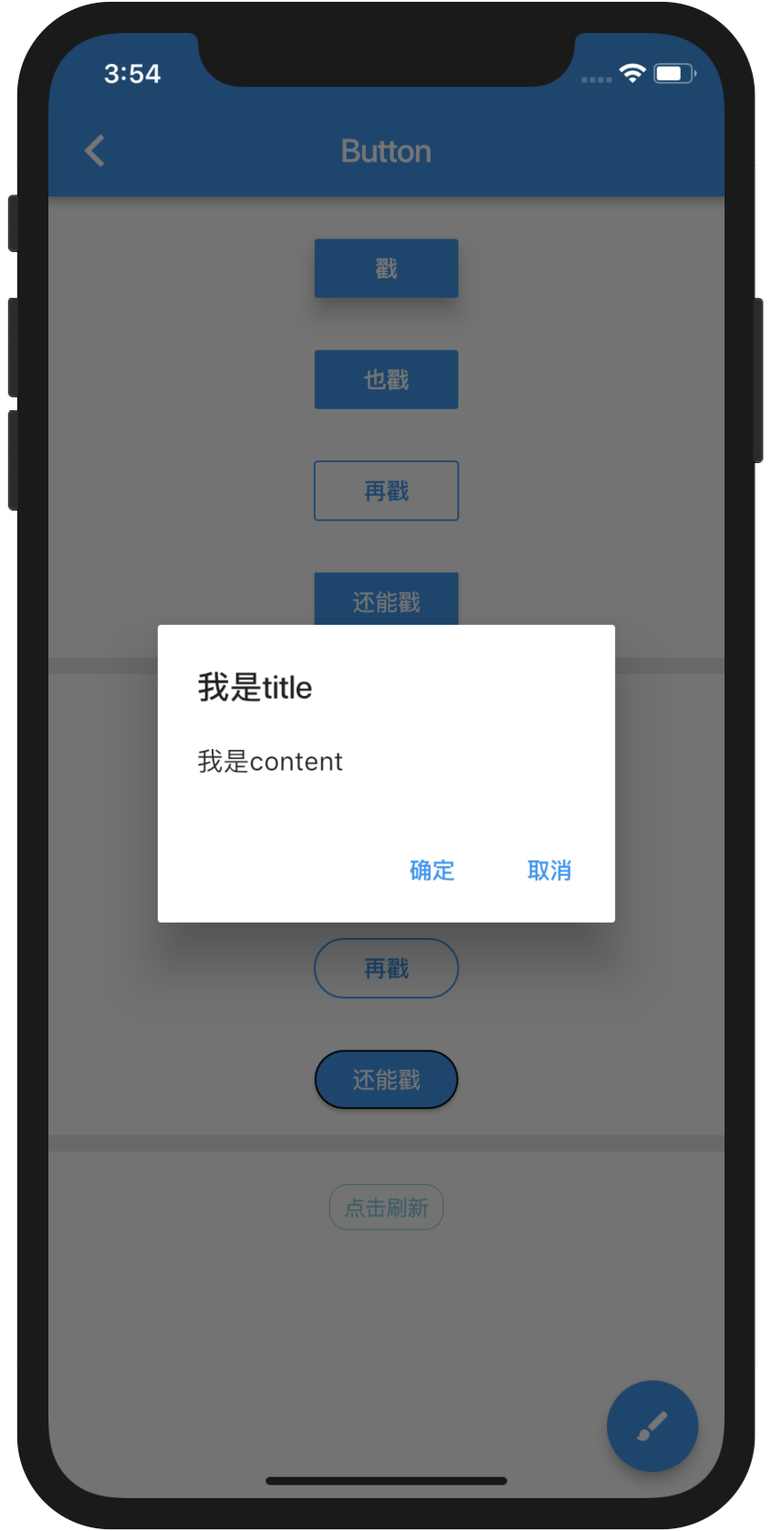
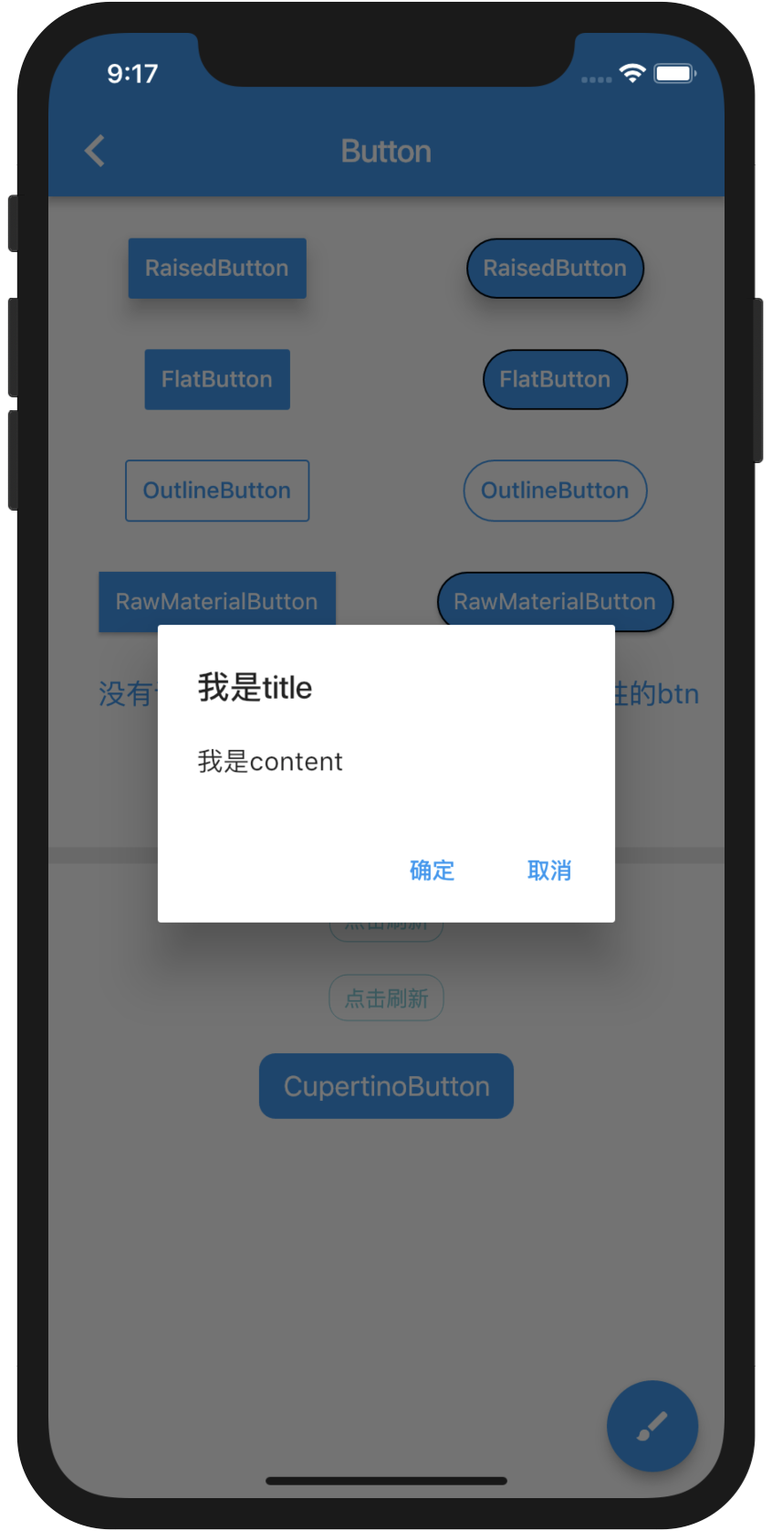
Site updated: 2019-01-09 15:36:15

diff --git a/2019/01/05/Widget基础篇/index.html b/2019/01/05/Widget基础篇/index.html
@@ -89,9 +89,10 @@
 <meta property="og:locale" content="zh-Hans">
 <meta property="og:image" content="https://camo.githubusercontent.com/ce09e689b2860fb7e47d511a571ba47ab6705c79/68747470733a2f2f696d672e616c6963646e2e636f6d2f7466732f54423175325f3466567a714b31526a535a467658586342375658612d3834362d343638352e706e67">
 <meta property="og:image" content="http://yoursite.com/2019/01/05/Widget基础篇/widget_desc.png">
+<meta property="og:image" content="http://yoursite.com/2019/01/05/Widget基础篇/show_textfield.gif">
 <meta property="og:image" content="http://yoursite.com/2019/01/05/Widget基础篇/button_demo.png">
 <meta property="og:image" content="http://yoursite.com/2019/01/05/Widget基础篇/button_clicked.png">
-<meta property="og:updated_time" content="2019-01-08T08:01:58.604Z">
+<meta property="og:updated_time" content="2019-01-09T07:34:33.726Z">
 <meta name="twitter:card" content="summary">
 <meta name="twitter:title" content="Widget基础篇">
 <meta name="twitter:description" content="1、Widget State在 Flutter 中，一切能显示的都是 Widget 。 Widget 是一切的基础，作为响应式的渲染，属于 MVVM 的实现机制。我们可以通过修改数据，再用 setState 设置数据， Flutter 会自动通过绑定的数据更新 Widget 。我们需要做的就是实现 Widget 页面，并且和数据绑定起来。 Widget 分为 有状态 和 无状态 两种。在 Flut">
@@ -328,9 +329,9 @@
 </blockquote>
 <figure class="highlight dart"><table><tr><td class="gutter"><pre><span class="line">1</span><br><span class="line">2</span><br><span class="line">3</span><br><span class="line">4</span><br><span class="line">5</span><br><span class="line">6</span><br><span class="line">7</span><br><span class="line">8</span><br><span class="line">9</span><br><span class="line">10</span><br><span class="line">11</span><br><span class="line">12</span><br><span class="line">13</span><br><span class="line">14</span><br><span class="line">15</span><br><span class="line">16</span><br><span class="line">17</span><br><span class="line">18</span><br><span class="line">19</span><br><span class="line">20</span><br><span class="line">21</span><br><span class="line">22</span><br><span class="line">23</span><br><span class="line">24</span><br><span class="line">25</span><br><span class="line">26</span><br><span class="line">27</span><br><span class="line">28</span><br><span class="line">29</span><br><span class="line">30</span><br><span class="line">31</span><br><span class="line">32</span><br></pre></td><td class="code"><pre><span class="line"><span class="class"><span class="keyword">class</span> <span class="title">MyStateful</span> <span class="keyword">extends</span> <span class="title">StatefulWidget</span> </span>&#123;</span><br><span class="line">    <span class="meta">@override</span></span><br><span class="line">    State&lt;StatefulWidget&gt; createState() &#123;</span><br><span class="line">        <span class="keyword">return</span> _MyStatefulState();</span><br><span class="line">    &#125;</span><br><span class="line">&#125;</span><br><span class="line"></span><br><span class="line"><span class="class"><span class="keyword">class</span> <span class="title">_MyStatefulState</span> <span class="keyword">extends</span> <span class="title">State</span>&lt;<span class="title">MyStateful</span>&gt; </span>&#123;</span><br><span class="line">    <span class="built_in">int</span> pressCount;</span><br><span class="line">    <span class="meta">@override</span></span><br><span class="line">    <span class="keyword">void</span> initState() &#123;</span><br><span class="line">        <span class="keyword">super</span>.initState();</span><br><span class="line">        pressCount = <span class="number">0</span>;</span><br><span class="line">    &#125;</span><br><span class="line"></span><br><span class="line">    <span class="meta">@override</span></span><br><span class="line">    Widget build(BuildContext context) &#123;</span><br><span class="line">        <span class="keyword">return</span> Container(</span><br><span class="line">            child: FlatButton(</span><br><span class="line">                onPressed: () &#123;</span><br><span class="line">                    setState(() &#123;</span><br><span class="line">                       pressCount += <span class="number">1</span>;</span><br><span class="line">                    &#125;);</span><br><span class="line">                 &#125;,</span><br><span class="line">            </span><br><span class="line">                 child: Center(</span><br><span class="line">                    child: Text(<span class="string">'有状态的Widget，可戳👇--<span class="subst">$pressCount<span class="string">'),</span></span></span></span><br><span class="line"><span class="string"><span class="subst"><span class="string">                 )</span></span></span></span><br><span class="line"><span class="string"><span class="subst"><span class="string">             ),</span></span></span></span><br><span class="line"><span class="string"><span class="subst"><span class="string">        );</span></span></span></span><br><span class="line"><span class="string"><span class="subst"><span class="string">    &#125;</span></span></span></span><br><span class="line"><span class="string"><span class="subst"><span class="string">&#125;</span></span></span></span><br></pre></td></tr></table></figure>
 <p>不管是有状态的还是无状态的 <strong>Widget</strong> ，我们需要做的就是在 <strong>build</strong> 中堆积我们的布局，把数据添加到 <strong>Widget</strong> 中，有状态的可以通过 <strong>setState</strong> 改变数据，从而刷新UI，就这么简单。</p>
-<h2 id="2、Flutter中的Widget"><a href="#2、Flutter中的Widget" class="headerlink" title="2、Flutter中的Widget"></a>2、Flutter中的Widget</h2><p>先来看一张图，这张图中几乎包含了 <strong>Flutter</strong> 中所有的 <strong>Widget</strong>：</p>
+<h2 id="2、Flutter中的Widget整理"><a href="#2、Flutter中的Widget整理" class="headerlink" title="2、Flutter中的Widget整理"></a>2、Flutter中的Widget整理</h2><p>先来看一张图，这张图中几乎包含了 <strong>Flutter</strong> 中所有的 <strong>Widget</strong>：</p>
 <p><img src="https://camo.githubusercontent.com/ce09e689b2860fb7e47d511a571ba47ab6705c79/68747470733a2f2f696d672e616c6963646e2e636f6d2f7466732f54423175325f3466567a714b31526a535a467658586342375658612d3834362d343638352e706e67" align="center" width="400"></p>
-<p>我们先针对其中比较常用的讲解下其特性和使用。</p>
+<p>我们先针对其中比较常用的讲解下其特性和使用方法。</p>
 <h2 id="3、布局相关的常用Widget"><a href="#3、布局相关的常用Widget" class="headerlink" title="3、布局相关的常用Widget"></a>3、布局相关的常用Widget</h2><ul>
 <li><p><strong>Container</strong></p>
 <p>  最常用的布局。只能包含一个 <strong>child</strong> ，默认铺满。支持配置 <strong>padding</strong> 、<strong>margin</strong> 、<strong>color</strong> 、宽高、<strong>decoration</strong> (一般配置边框和阴影等)。不是所有的控件都有 <strong>padding</strong> 、<strong>margin</strong> 、<strong>color</strong> 、宽高等属性，所以才会有 <strong>Padding</strong> 、<strong>Center</strong> 等 <strong>Widget</strong> 的存在。</p>
@@ -377,29 +378,38 @@
 </blockquote>
   <figure class="highlight dart"><table><tr><td class="gutter"><pre><span class="line">1</span><br><span class="line">2</span><br><span class="line">3</span><br><span class="line">4</span><br><span class="line">5</span><br><span class="line">6</span><br><span class="line">7</span><br><span class="line">8</span><br><span class="line">9</span><br><span class="line">10</span><br><span class="line">11</span><br><span class="line">12</span><br></pre></td><td class="code"><pre><span class="line">_imageDemo() &#123;</span><br><span class="line">    <span class="keyword">return</span> Container(</span><br><span class="line">        alignment: Alignment.center,</span><br><span class="line">        width: <span class="number">300</span>,</span><br><span class="line">        height: <span class="number">400</span>,</span><br><span class="line">        color: Colors.blue,</span><br><span class="line">        child: Image.network(</span><br><span class="line">            <span class="string">'https://ss2.bdstatic.com/70cFvnSh_Q1YnxGkpoWK1HF6hhy/it/u=2527385882,2413489660&amp;fm=26&amp;gp=0.jpg'</span>,</span><br><span class="line">            fit: BoxFit.contain,</span><br><span class="line">        )</span><br><span class="line">    );</span><br><span class="line">&#125;</span><br></pre></td></tr></table></figure>
 </li>
+<li><p><strong>TextField</strong></p>
+<p>  <strong>TextField</strong> 和 <strong>CupertinoTextField</strong> 是两种不同风格的 <strong>textField</strong> ，两者样式有很大差异，用法略有不同。先来看下 <strong>TextField</strong> 的基本使用：</p>
+  <figure class="highlight dart"><table><tr><td class="gutter"><pre><span class="line">1</span><br><span class="line">2</span><br><span class="line">3</span><br><span class="line">4</span><br><span class="line">5</span><br><span class="line">6</span><br><span class="line">7</span><br><span class="line">8</span><br><span class="line">9</span><br><span class="line">10</span><br><span class="line">11</span><br><span class="line">12</span><br><span class="line">13</span><br><span class="line">14</span><br><span class="line">15</span><br><span class="line">16</span><br><span class="line">17</span><br><span class="line">18</span><br><span class="line">19</span><br><span class="line">20</span><br><span class="line">21</span><br><span class="line">22</span><br><span class="line">23</span><br><span class="line">24</span><br><span class="line">25</span><br><span class="line">26</span><br><span class="line">27</span><br><span class="line">28</span><br><span class="line">29</span><br><span class="line">30</span><br><span class="line">31</span><br><span class="line">32</span><br><span class="line">33</span><br></pre></td><td class="code"><pre><span class="line">_textFieldDemo0() &#123;</span><br><span class="line">    <span class="keyword">return</span> TextField(</span><br><span class="line">        maxLength: <span class="number">30</span>,</span><br><span class="line">        maxLines: <span class="number">1</span>,</span><br><span class="line">        <span class="comment">// 是否自动聚焦</span></span><br><span class="line">        autofocus: <span class="keyword">false</span>,</span><br><span class="line">        <span class="comment">// 是否为密码输入框</span></span><br><span class="line">        obscureText: <span class="keyword">false</span>,</span><br><span class="line">        textAlign: TextAlign.left,</span><br><span class="line">        style: TextStyle(</span><br><span class="line">            fontSize: <span class="number">17</span>,</span><br><span class="line">            color: Colors.black</span><br><span class="line">        ),</span><br><span class="line">        onChanged: (text) &#123;</span><br><span class="line">            <span class="built_in">print</span>(<span class="string">'onChanged:--<span class="subst">$text</span>--'</span>);</span><br><span class="line">        &#125;,</span><br><span class="line">        onSubmitted: (text) &#123;</span><br><span class="line">            <span class="built_in">print</span>(<span class="string">'onSubmitted:--<span class="subst">$text</span>--'</span>);</span><br><span class="line">        &#125;,</span><br><span class="line">        <span class="comment">// 装饰效果</span></span><br><span class="line">        decoration: InputDecoration(</span><br><span class="line">            filled: <span class="keyword">false</span>,</span><br><span class="line">            hintText: <span class="string">'placeholder'</span>,</span><br><span class="line">            helperText: <span class="string">'helperText'</span>,</span><br><span class="line">            labelText: <span class="string">'labelText'</span></span><br><span class="line">        ),</span><br><span class="line">        enabled: <span class="keyword">true</span>,</span><br><span class="line">        <span class="comment">// 实现该方法后，点键盘return输入框不会失去焦点</span></span><br><span class="line">        onEditingComplete: () &#123;</span><br><span class="line">            <span class="built_in">print</span>(<span class="string">'TextField:complete'</span>);</span><br><span class="line">        &#125;</span><br><span class="line">    );</span><br><span class="line">&#125;</span><br></pre></td></tr></table></figure>
+<p>  下面 <strong>CupertinoTextField</strong> （iOS风格的TextField）的基本使用：</p>
+  <figure class="highlight dart"><table><tr><td class="gutter"><pre><span class="line">1</span><br><span class="line">2</span><br><span class="line">3</span><br><span class="line">4</span><br><span class="line">5</span><br><span class="line">6</span><br><span class="line">7</span><br><span class="line">8</span><br><span class="line">9</span><br><span class="line">10</span><br><span class="line">11</span><br><span class="line">12</span><br><span class="line">13</span><br><span class="line">14</span><br><span class="line">15</span><br><span class="line">16</span><br><span class="line">17</span><br><span class="line">18</span><br><span class="line">19</span><br><span class="line">20</span><br><span class="line">21</span><br><span class="line">22</span><br><span class="line">23</span><br><span class="line">24</span><br><span class="line">25</span><br><span class="line">26</span><br><span class="line">27</span><br><span class="line">28</span><br><span class="line">29</span><br><span class="line">30</span><br><span class="line">31</span><br><span class="line">32</span><br></pre></td><td class="code"><pre><span class="line">_textFieldDemo1() &#123;</span><br><span class="line">    <span class="keyword">return</span> CupertinoTextField(</span><br><span class="line">        maxLength: <span class="number">200</span>,</span><br><span class="line">        maxLines: <span class="number">1</span>,</span><br><span class="line">        autofocus: <span class="keyword">false</span>,</span><br><span class="line">        <span class="comment">// 密码</span></span><br><span class="line">        obscureText: <span class="keyword">false</span>,</span><br><span class="line">        autocorrect: <span class="keyword">false</span>,</span><br><span class="line">        textAlign: TextAlign.left,</span><br><span class="line">        style: TextStyle(</span><br><span class="line">            fontSize: <span class="number">17</span>,</span><br><span class="line">            color: Colors.black</span><br><span class="line">        ),</span><br><span class="line">        onChanged: (text) &#123;</span><br><span class="line">            <span class="built_in">print</span>(<span class="string">'onChanged:--<span class="subst">$text</span>--'</span>);</span><br><span class="line">        &#125;,</span><br><span class="line">        onSubmitted: (text) &#123;</span><br><span class="line">            <span class="built_in">print</span>(<span class="string">'onSubmitted:--<span class="subst">$text</span>--'</span>);</span><br><span class="line">        &#125;,</span><br><span class="line">        placeholder: <span class="string">'placeholder'</span>,</span><br><span class="line">        clearButtonMode: OverlayVisibilityMode.editing,</span><br><span class="line">        enabled: <span class="keyword">true</span>,</span><br><span class="line">        <span class="comment">// 设置光标宽度，默认为2</span></span><br><span class="line">        cursorWidth: <span class="number">2</span>,</span><br><span class="line">        <span class="comment">// 设置光标颜色，默认为blue</span></span><br><span class="line">        cursorColor: Colors.red,</span><br><span class="line">        <span class="comment">// 在onSubmitted之前调用。实现了该方法后，按return不会让textField失去焦点</span></span><br><span class="line">        onEditingComplete: () &#123;</span><br><span class="line">            <span class="built_in">print</span>(<span class="string">'CupertinoTextField:complete'</span>);</span><br><span class="line">        &#125;</span><br><span class="line">    );</span><br><span class="line">&#125;</span><br></pre></td></tr></table></figure>
+<p>  <img src="/2019/01/05/Widget基础篇/show_textfield.gif" width="240" align="center"></p>
+</li>
 <li><p><strong>RaisedButton &amp; FlatButton</strong></p>
 <p>  FlatButton用法和RaisedButton基本相同，但样式上FlatButton属于扁平化，RaisedButton属于拟物化，有立体感（凸起），可以设置Button底部阴影效果。</p>
-  <figure class="highlight dart"><table><tr><td class="gutter"><pre><span class="line">1</span><br><span class="line">2</span><br><span class="line">3</span><br><span class="line">4</span><br><span class="line">5</span><br><span class="line">6</span><br><span class="line">7</span><br><span class="line">8</span><br><span class="line">9</span><br><span class="line">10</span><br><span class="line">11</span><br><span class="line">12</span><br><span class="line">13</span><br><span class="line">14</span><br><span class="line">15</span><br><span class="line">16</span><br><span class="line">17</span><br><span class="line">18</span><br><span class="line">19</span><br><span class="line">20</span><br><span class="line">21</span><br><span class="line">22</span><br><span class="line">23</span><br><span class="line">24</span><br></pre></td><td class="code"><pre><span class="line"><span class="comment">// RaisedButton 凸起效果</span></span><br><span class="line">_raisedButtonDemo() &#123;</span><br><span class="line">    <span class="keyword">return</span> RaisedButton(</span><br><span class="line">        onPressed: () =&gt; _showMyDialog(),</span><br><span class="line">        <span class="comment">// highlight状态发生变化就调用（高亮和取消高亮都调用）</span></span><br><span class="line">        onHighlightChanged: (value) &#123;</span><br><span class="line">            <span class="built_in">print</span>(<span class="string">'highlight changed: <span class="subst">$&#123;value&#125;</span>'</span>);</span><br><span class="line">        &#125;,</span><br><span class="line">        <span class="comment">// 文本文字颜色</span></span><br><span class="line">        textColor: Colors.white,</span><br><span class="line">        <span class="comment">// 背景色</span></span><br><span class="line">        color: Colors.blue,</span><br><span class="line">        child: Text(<span class="string">'戳'</span>),</span><br><span class="line">        padding: EdgeInsets.all(<span class="number">0</span>),</span><br><span class="line">        shape: RoundedRectangleBorder(</span><br><span class="line">            borderRadius: BorderRadius.circular(<span class="number">20</span>),</span><br><span class="line">            side: BorderSide(</span><br><span class="line">                color: Colors.black,</span><br><span class="line">                width: <span class="number">1</span></span><br><span class="line">            )</span><br><span class="line">        ),</span><br><span class="line">        elevation: <span class="number">10</span>,</span><br><span class="line">    );</span><br><span class="line">&#125;</span><br></pre></td></tr></table></figure>
+  <figure class="highlight dart"><table><tr><td class="gutter"><pre><span class="line">1</span><br><span class="line">2</span><br><span class="line">3</span><br><span class="line">4</span><br><span class="line">5</span><br><span class="line">6</span><br><span class="line">7</span><br><span class="line">8</span><br><span class="line">9</span><br><span class="line">10</span><br><span class="line">11</span><br><span class="line">12</span><br><span class="line">13</span><br><span class="line">14</span><br><span class="line">15</span><br><span class="line">16</span><br><span class="line">17</span><br><span class="line">18</span><br><span class="line">19</span><br><span class="line">20</span><br><span class="line">21</span><br><span class="line">22</span><br><span class="line">23</span><br><span class="line">24</span><br></pre></td><td class="code"><pre><span class="line"><span class="comment">// RaisedButton 凸起效果</span></span><br><span class="line">_raisedButtonDemo() &#123;</span><br><span class="line">    <span class="keyword">return</span> RaisedButton(</span><br><span class="line">        onPressed: () =&gt; _showMyDialog(),</span><br><span class="line">        <span class="comment">// highlight状态发生变化就调用（高亮和取消高亮都调用）</span></span><br><span class="line">        onHighlightChanged: (value) &#123;</span><br><span class="line">            <span class="built_in">print</span>(<span class="string">'highlight changed: <span class="subst">$&#123;value&#125;</span>'</span>);</span><br><span class="line">        &#125;,</span><br><span class="line">        <span class="comment">// 文本文字颜色</span></span><br><span class="line">        textColor: Colors.white,</span><br><span class="line">        <span class="comment">// 背景色</span></span><br><span class="line">        color: Colors.blue,</span><br><span class="line">        child: Text(<span class="string">'戳'</span>),</span><br><span class="line">        padding: EdgeInsets.all(<span class="number">10</span>),</span><br><span class="line">        shape: RoundedRectangleBorder(</span><br><span class="line">            borderRadius: BorderRadius.circular(<span class="number">20</span>),</span><br><span class="line">            side: BorderSide(</span><br><span class="line">                color: Colors.black,</span><br><span class="line">                width: <span class="number">1</span></span><br><span class="line">            )</span><br><span class="line">        ),</span><br><span class="line">        elevation: <span class="number">10</span>,</span><br><span class="line">    );</span><br><span class="line">&#125;</span><br></pre></td></tr></table></figure>
 </li>
 <li><p><strong>OutlineButton</strong></p>
 <p>  线框按钮，它的color属性不会生效（即不能通过color设置OutlineButton的背景色），带有默认边框。其余用法和效果同FlatButton，都是扁平化的效果。</p>
-  <figure class="highlight dart"><table><tr><td class="gutter"><pre><span class="line">1</span><br><span class="line">2</span><br><span class="line">3</span><br><span class="line">4</span><br><span class="line">5</span><br><span class="line">6</span><br><span class="line">7</span><br><span class="line">8</span><br><span class="line">9</span><br><span class="line">10</span><br><span class="line">11</span><br><span class="line">12</span><br><span class="line">13</span><br><span class="line">14</span><br><span class="line">15</span><br><span class="line">16</span><br><span class="line">17</span><br><span class="line">18</span><br></pre></td><td class="code"><pre><span class="line"><span class="comment">// OutlineButton 扁平化，默认带边框</span></span><br><span class="line">_outlineButtonDemo() &#123;</span><br><span class="line">    <span class="keyword">return</span> OutlineButton(</span><br><span class="line">        onPressed: () =&gt; _showMyDialog(),</span><br><span class="line">        textColor: Colors.blue,</span><br><span class="line">        child: Text(<span class="string">'balabala'</span>),</span><br><span class="line">        padding: EdgeInsets.all(<span class="number">0</span>),</span><br><span class="line">        <span class="comment">// borderSide可以设置边框的颜色、宽度和边框样式（none和solid两种）</span></span><br><span class="line">        borderSide: BorderSide(color: Colors.blue),</span><br><span class="line">        shape: RoundedRectangleBorder(</span><br><span class="line">            borderRadius: BorderRadius.circular(<span class="number">20</span>),</span><br><span class="line">            <span class="comment">// 这里的BorderSide只可以设置边框样式，并且优先级低</span></span><br><span class="line">            side: BorderSide(</span><br><span class="line">                style: BorderStyle.solid</span><br><span class="line">            )</span><br><span class="line">        )</span><br><span class="line">    );</span><br><span class="line">&#125;</span><br></pre></td></tr></table></figure>
+  <figure class="highlight dart"><table><tr><td class="gutter"><pre><span class="line">1</span><br><span class="line">2</span><br><span class="line">3</span><br><span class="line">4</span><br><span class="line">5</span><br><span class="line">6</span><br><span class="line">7</span><br><span class="line">8</span><br><span class="line">9</span><br><span class="line">10</span><br><span class="line">11</span><br><span class="line">12</span><br><span class="line">13</span><br><span class="line">14</span><br><span class="line">15</span><br><span class="line">16</span><br><span class="line">17</span><br><span class="line">18</span><br></pre></td><td class="code"><pre><span class="line"><span class="comment">// OutlineButton 扁平化，默认带边框</span></span><br><span class="line">_outlineButtonDemo() &#123;</span><br><span class="line">    <span class="keyword">return</span> OutlineButton(</span><br><span class="line">        onPressed: () =&gt; _showMyDialog(),</span><br><span class="line">        textColor: Colors.blue,</span><br><span class="line">        child: Text(<span class="string">'balabala'</span>),</span><br><span class="line">        padding: EdgeInsets.all(<span class="number">10</span>),</span><br><span class="line">        <span class="comment">// borderSide可以设置边框的颜色、宽度和边框样式（none和solid两种）</span></span><br><span class="line">        borderSide: BorderSide(color: Colors.blue),</span><br><span class="line">        shape: RoundedRectangleBorder(</span><br><span class="line">            borderRadius: BorderRadius.circular(<span class="number">20</span>),</span><br><span class="line">            <span class="comment">// 这里的BorderSide只可以设置边框样式，并且优先级低</span></span><br><span class="line">            side: BorderSide(</span><br><span class="line">                style: BorderStyle.solid</span><br><span class="line">            )</span><br><span class="line">        )</span><br><span class="line">    );</span><br><span class="line">&#125;</span><br></pre></td></tr></table></figure>
 </li>
 <li><p><strong>RawMaterialButton</strong></p>
 <p>  其效果类似FlatButton，用法与上面的三种button稍有差异。上面介绍的几种button，它们的很多属性（如shape）可以设置为null，但RawMaterialButton的属性不允许有null，否则抛出异常。</p>
-  <figure class="highlight dart"><table><tr><td class="gutter"><pre><span class="line">1</span><br><span class="line">2</span><br><span class="line">3</span><br><span class="line">4</span><br><span class="line">5</span><br><span class="line">6</span><br><span class="line">7</span><br><span class="line">8</span><br><span class="line">9</span><br><span class="line">10</span><br><span class="line">11</span><br><span class="line">12</span><br><span class="line">13</span><br><span class="line">14</span><br><span class="line">15</span><br><span class="line">16</span><br><span class="line">17</span><br></pre></td><td class="code"><pre><span class="line"><span class="comment">// MaterialButton 扁平化，效果类似FlatButton</span></span><br><span class="line">_rawMaterialButtonDemo(<span class="built_in">bool</span> withBorder) &#123;</span><br><span class="line">    <span class="keyword">return</span> RawMaterialButton(</span><br><span class="line">        onPressed: () =&gt; _showMyDialog(),</span><br><span class="line">        child: Text(<span class="string">'balabala'</span>),</span><br><span class="line">        padding: EdgeInsets.all(<span class="number">0</span>),</span><br><span class="line">        <span class="comment">// 填充色/背景色</span></span><br><span class="line">        fillColor: Colors.blue,</span><br><span class="line">        textStyle: TextStyle(color: Colors.white),</span><br><span class="line">        shape: RoundedRectangleBorder(</span><br><span class="line">            borderRadius: BorderRadius.circular(<span class="number">20</span>),</span><br><span class="line">            side: BorderSide(</span><br><span class="line">                style: BorderStyle.solid</span><br><span class="line">            )</span><br><span class="line">        )</span><br><span class="line">    );</span><br><span class="line">&#125;</span><br></pre></td></tr></table></figure>
+  <figure class="highlight dart"><table><tr><td class="gutter"><pre><span class="line">1</span><br><span class="line">2</span><br><span class="line">3</span><br><span class="line">4</span><br><span class="line">5</span><br><span class="line">6</span><br><span class="line">7</span><br><span class="line">8</span><br><span class="line">9</span><br><span class="line">10</span><br><span class="line">11</span><br><span class="line">12</span><br><span class="line">13</span><br><span class="line">14</span><br><span class="line">15</span><br><span class="line">16</span><br><span class="line">17</span><br></pre></td><td class="code"><pre><span class="line"><span class="comment">// MaterialButton 扁平化，效果类似FlatButton</span></span><br><span class="line">_rawMaterialButtonDemo(<span class="built_in">bool</span> withBorder) &#123;</span><br><span class="line">    <span class="keyword">return</span> RawMaterialButton(</span><br><span class="line">        onPressed: () =&gt; _showMyDialog(),</span><br><span class="line">        child: Text(<span class="string">'balabala'</span>),</span><br><span class="line">        padding: EdgeInsets.all(<span class="number">10</span>),</span><br><span class="line">        <span class="comment">// 填充色/背景色</span></span><br><span class="line">        fillColor: Colors.blue,</span><br><span class="line">        textStyle: TextStyle(color: Colors.white),</span><br><span class="line">        shape: RoundedRectangleBorder(</span><br><span class="line">            borderRadius: BorderRadius.circular(<span class="number">20</span>),</span><br><span class="line">            side: BorderSide(</span><br><span class="line">                style: BorderStyle.solid</span><br><span class="line">            )</span><br><span class="line">        )</span><br><span class="line">    );</span><br><span class="line">&#125;</span><br></pre></td></tr></table></figure>
 <blockquote>
-<p>⚠ 以上这几种button都可以设置其padding值，但它们都有一个默认的padding，只有设置的padding值比默认值大才会生效（上面三个例子设置的pading都为0，其实是没有效果的）。</p>
+<p>⚠ 以上这几种button都可以设置其padding值，但它们都有一个默认的padding。当这些button的上一层级Widget的尺寸足够容纳button，这时设置的padding值比默认值大才会生效。当button上一层级的Widget不足以展示button的默认padding时，设置较小的padding可以生效。我们可以通过在button外面包裹一层Container，并设置其alignment为center，再根据需求设置Container的宽高，就可以布局出自己想要的button样式。</p>
 </blockquote>
 </li>
-<li><p><strong>通过GestureDetector自定义样式的button</strong></p>
-<p>  由于上面介绍的几种button，都有一些无法改变的固定样式，这往往不能满足开发中的特定需求。所以，现在介绍一种自定义样式的button（其实就是给自己布局好的Widget添加上手势功能）</p>
+<li><p><strong>通过GestureDetector实现自定义样式的button</strong></p>
+<p>  由于上面介绍的几种button，都有一些无法改变的固定样式，这往往不能满足开发中的特定需求。除了上面说的利用Container包裹button以达到想要的样式之外，还可以通过GestureDetector来实现自定义样式的button（其实就是在自己布局的Widget基础上添加了点击手势功能）。</p>
   <figure class="highlight dart"><table><tr><td class="gutter"><pre><span class="line">1</span><br><span class="line">2</span><br><span class="line">3</span><br><span class="line">4</span><br><span class="line">5</span><br><span class="line">6</span><br><span class="line">7</span><br><span class="line">8</span><br><span class="line">9</span><br><span class="line">10</span><br><span class="line">11</span><br><span class="line">12</span><br><span class="line">13</span><br><span class="line">14</span><br><span class="line">15</span><br><span class="line">16</span><br><span class="line">17</span><br><span class="line">18</span><br><span class="line">19</span><br><span class="line">20</span><br><span class="line">21</span><br><span class="line">22</span><br></pre></td><td class="code"><pre><span class="line">_myButton() &#123;</span><br><span class="line">    <span class="keyword">return</span> GestureDetector(</span><br><span class="line">        onTap: () =&gt; _showMyDialog(),</span><br><span class="line">        child: Container(</span><br><span class="line">            width: <span class="number">70</span>,</span><br><span class="line">            height: <span class="number">28</span>,</span><br><span class="line">            margin: EdgeInsets.only(top: <span class="number">20</span>),</span><br><span class="line">            decoration: BoxDecoration(</span><br><span class="line">                borderRadius: BorderRadius.circular(<span class="number">11.0</span>),</span><br><span class="line">                border: Border.all(width: <span class="number">0.5</span>, color: Color(<span class="number">0xFF6BCBD7</span>))</span><br><span class="line">            ),</span><br><span class="line">            child: Center(</span><br><span class="line">                child: Text(<span class="string">'点击刷新'</span>,</span><br><span class="line">                    style: TextStyle(</span><br><span class="line">                        fontSize: <span class="number">13</span>,</span><br><span class="line">                        color: Color(<span class="number">0xFF6BCBD7</span>)</span><br><span class="line">                    ),</span><br><span class="line">                ),</span><br><span class="line">            ),</span><br><span class="line">        ),</span><br><span class="line">    );</span><br><span class="line">&#125;</span><br></pre></td></tr></table></figure>
-  <table><br>      <tr><br>          <td><img src="/2019/01/05/Widget基础篇/button_demo.png" width="200"></td><br>          <td><img src="/2019/01/05/Widget基础篇/button_clicked.png" width="200"></td><br>      </tr><br>  </table>
-
+</li>
+<li><p><strong>CupertinoButton</strong></p>
+<p>  CupertinoButton是iOS风格的button</p>
+  <figure class="highlight dart"><table><tr><td class="gutter"><pre><span class="line">1</span><br><span class="line">2</span><br><span class="line">3</span><br><span class="line">4</span><br><span class="line">5</span><br><span class="line">6</span><br><span class="line">7</span><br><span class="line">8</span><br><span class="line">9</span><br><span class="line">10</span><br><span class="line">11</span><br><span class="line">12</span><br><span class="line">13</span><br><span class="line">14</span><br><span class="line">15</span><br><span class="line">16</span><br><span class="line">17</span><br><span class="line">18</span><br><span class="line">19</span><br><span class="line">20</span><br><span class="line">21</span><br><span class="line">22</span><br><span class="line">23</span><br><span class="line">24</span><br><span class="line">25</span><br><span class="line">26</span><br><span class="line">27</span><br><span class="line">28</span><br><span class="line">29</span><br><span class="line">30</span><br><span class="line">31</span><br><span class="line">32</span><br><span class="line">33</span><br><span class="line">34</span><br><span class="line">35</span><br><span class="line">36</span><br><span class="line">37</span><br><span class="line">38</span><br><span class="line">39</span><br><span class="line">40</span><br><span class="line">41</span><br><span class="line">42</span><br><span class="line">43</span><br></pre></td><td class="code"><pre><span class="line">_iosButtonDemo() &#123;</span><br><span class="line">    <span class="keyword">return</span> Container(</span><br><span class="line">        margin: EdgeInsets.only(top: <span class="number">15</span>),</span><br><span class="line">        child: CupertinoButton(</span><br><span class="line">            child: Text(</span><br><span class="line">                <span class="string">'abc'</span>,</span><br><span class="line">                style: TextStyle(fontSize: <span class="number">17</span>, color: Colors.white),</span><br><span class="line">            ),</span><br><span class="line">            color: Colors.blue,</span><br><span class="line">            minSize: <span class="number">20</span>,</span><br><span class="line">            padding: EdgeInsets.fromLTRB(<span class="number">15</span>, <span class="number">10</span>, <span class="number">15</span>, <span class="number">10</span>),</span><br><span class="line">            borderRadius: BorderRadius.circular(<span class="number">10</span>),</span><br><span class="line">            onPressed: () =&gt; _showMyDialog()</span><br><span class="line">        )</span><br><span class="line">    );</span><br><span class="line">&#125;</span><br><span class="line"></span><br><span class="line"><span class="comment">// 以上所有例子中的按钮点击事件</span></span><br><span class="line">_showMyDialog() &#123;</span><br><span class="line">    showDialog(</span><br><span class="line">        context: context,</span><br><span class="line">        builder: (context) &#123;</span><br><span class="line">            <span class="keyword">return</span> AlertDialog(</span><br><span class="line">                title: Text(<span class="string">'我是title'</span>),</span><br><span class="line">                content: Text(<span class="string">'我是content'</span>),</span><br><span class="line">                actions: &lt;Widget&gt;[</span><br><span class="line">                    FlatButton(</span><br><span class="line">                        onPressed: () &#123;</span><br><span class="line">                            Navigator.pop(context);</span><br><span class="line">                        &#125;,</span><br><span class="line">                        child: Text(<span class="string">'确定'</span>)</span><br><span class="line">                    ),</span><br><span class="line">                    FlatButton(</span><br><span class="line">                        onPressed: () &#123;</span><br><span class="line">                            Navigator.pop(context);</span><br><span class="line">                        &#125;,</span><br><span class="line">                        child: Text(<span class="string">'取消'</span>)</span><br><span class="line">                    )</span><br><span class="line">                ],</span><br><span class="line">            );</span><br><span class="line">        &#125;</span><br><span class="line">    );</span><br><span class="line">&#125;</span><br></pre></td></tr></table></figure>
 </li>
 </ul>
-<p>上图自上而下一次为：不设置边框的RaisedButton、FlatButton、OutlineButton、RawMaterialButton；设置边框的RaisedButton、FlatButton、OutlineButton、RawMaterialButton；以及利用GestureDetector自定义样式的button</p>
+<p><img src="/2019/01/05/Widget基础篇/button_demo.png" width="240" align="left"><img src="/2019/01/05/Widget基础篇/button_clicked.png" width="240" align="right"></p>
 
       
     </div>
@@ -557,7 +567,7 @@
             
 
             
-              <div class="post-toc-content"><ol class="nav"><li class="nav-item nav-level-2"><a class="nav-link" href="#1、Widget-State"><span class="nav-text">1、Widget State</span></a></li><li class="nav-item nav-level-2"><a class="nav-link" href="#2、Flutter中的Widget"><span class="nav-text">2、Flutter中的Widget</span></a></li><li class="nav-item nav-level-2"><a class="nav-link" href="#3、布局相关的常用Widget"><span class="nav-text">3、布局相关的常用Widget</span></a></li><li class="nav-item nav-level-2"><a class="nav-link" href="#4、其它常用Widget"><span class="nav-text">4、其它常用Widget</span></a></li></ol></div>
+              <div class="post-toc-content"><ol class="nav"><li class="nav-item nav-level-2"><a class="nav-link" href="#1、Widget-State"><span class="nav-text">1、Widget State</span></a></li><li class="nav-item nav-level-2"><a class="nav-link" href="#2、Flutter中的Widget整理"><span class="nav-text">2、Flutter中的Widget整理</span></a></li><li class="nav-item nav-level-2"><a class="nav-link" href="#3、布局相关的常用Widget"><span class="nav-text">3、布局相关的常用Widget</span></a></li><li class="nav-item nav-level-2"><a class="nav-link" href="#4、其它常用Widget"><span class="nav-text">4、其它常用Widget</span></a></li></ol></div>
             
 
           </div>

diff --git a/css/main.css b/css/main.css
@@ -1823,7 +1823,7 @@ pre .javascript .function {
   width: 4px;
   height: 4px;
   border-radius: 50%;
-  background: #ff4bed;
+  background: #18ff86;
 }
 .links-of-blogroll {
   font-size: 13px;
